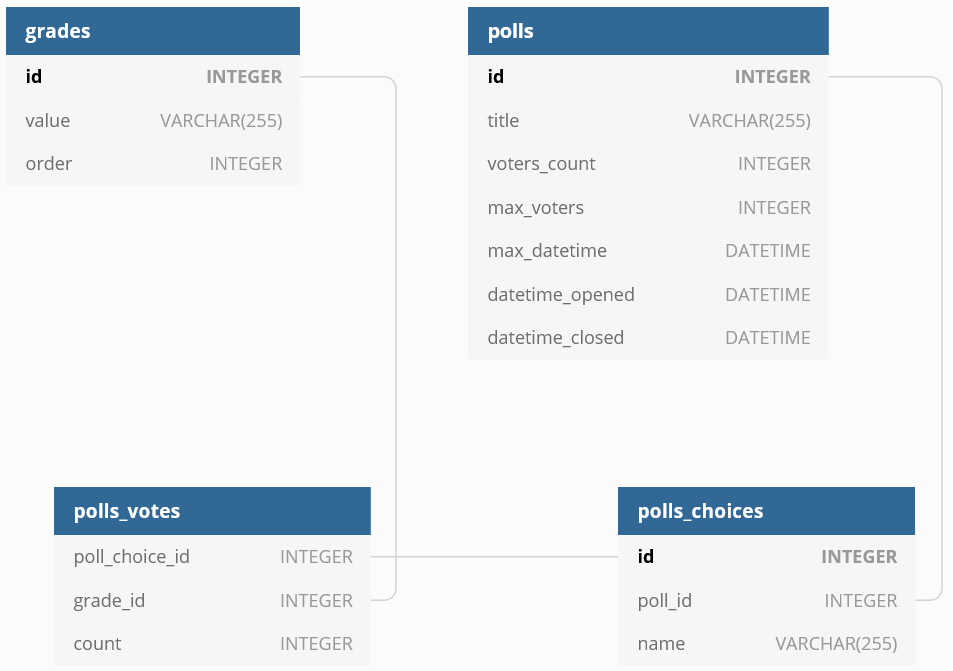
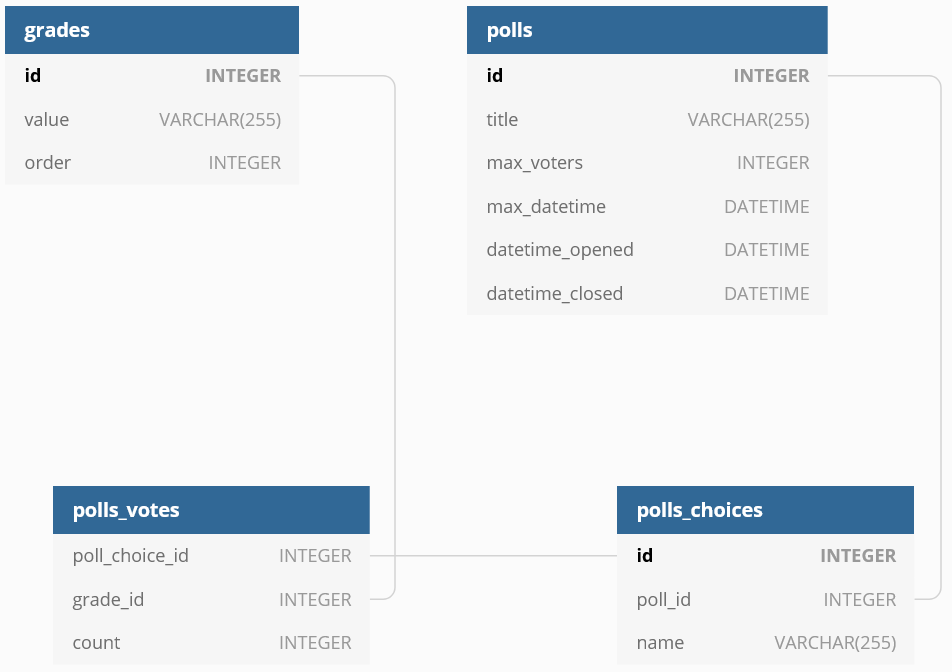
getVotes now returns poll direct properties, and removed voters_count from table polls, it's a duplicate data as it can be retrieved by summing counts of poll votes

diff --git a/db/db.js b/db/db.js
@@ -179,13 +179,16 @@ exports.getGrades = function () {
 
 exports.getVotes = function (poll_id) {
 
-    return executeStatement(`
-    SELECT name AS choice_name, value, count, "order" FROM polls_votes AS pv
-    INNER JOIN polls_choices AS pc ON pv.poll_choice_id=pc.id
-    INNER JOIN polls on pc.poll_id=polls.id
-    INNER JOIN grades AS g on pv.grade_id=g.id
-    WHERE polls.id = ?
-    `, 'all', [poll_id], false);
+    return Object.assign(exports.getPoll(poll_id),
+        {
+            "choices": executeStatement(`
+            SELECT name, value, count, "order" FROM polls_votes AS pv
+            INNER JOIN polls_choices AS pc ON pv.poll_choice_id=pc.id
+            INNER JOIN polls on pc.poll_id=polls.id
+            INNER JOIN grades AS g on pv.grade_id=g.id
+            WHERE polls.id = ?
+            `, 'all', [poll_id], false)
+        });
 
 }
 
